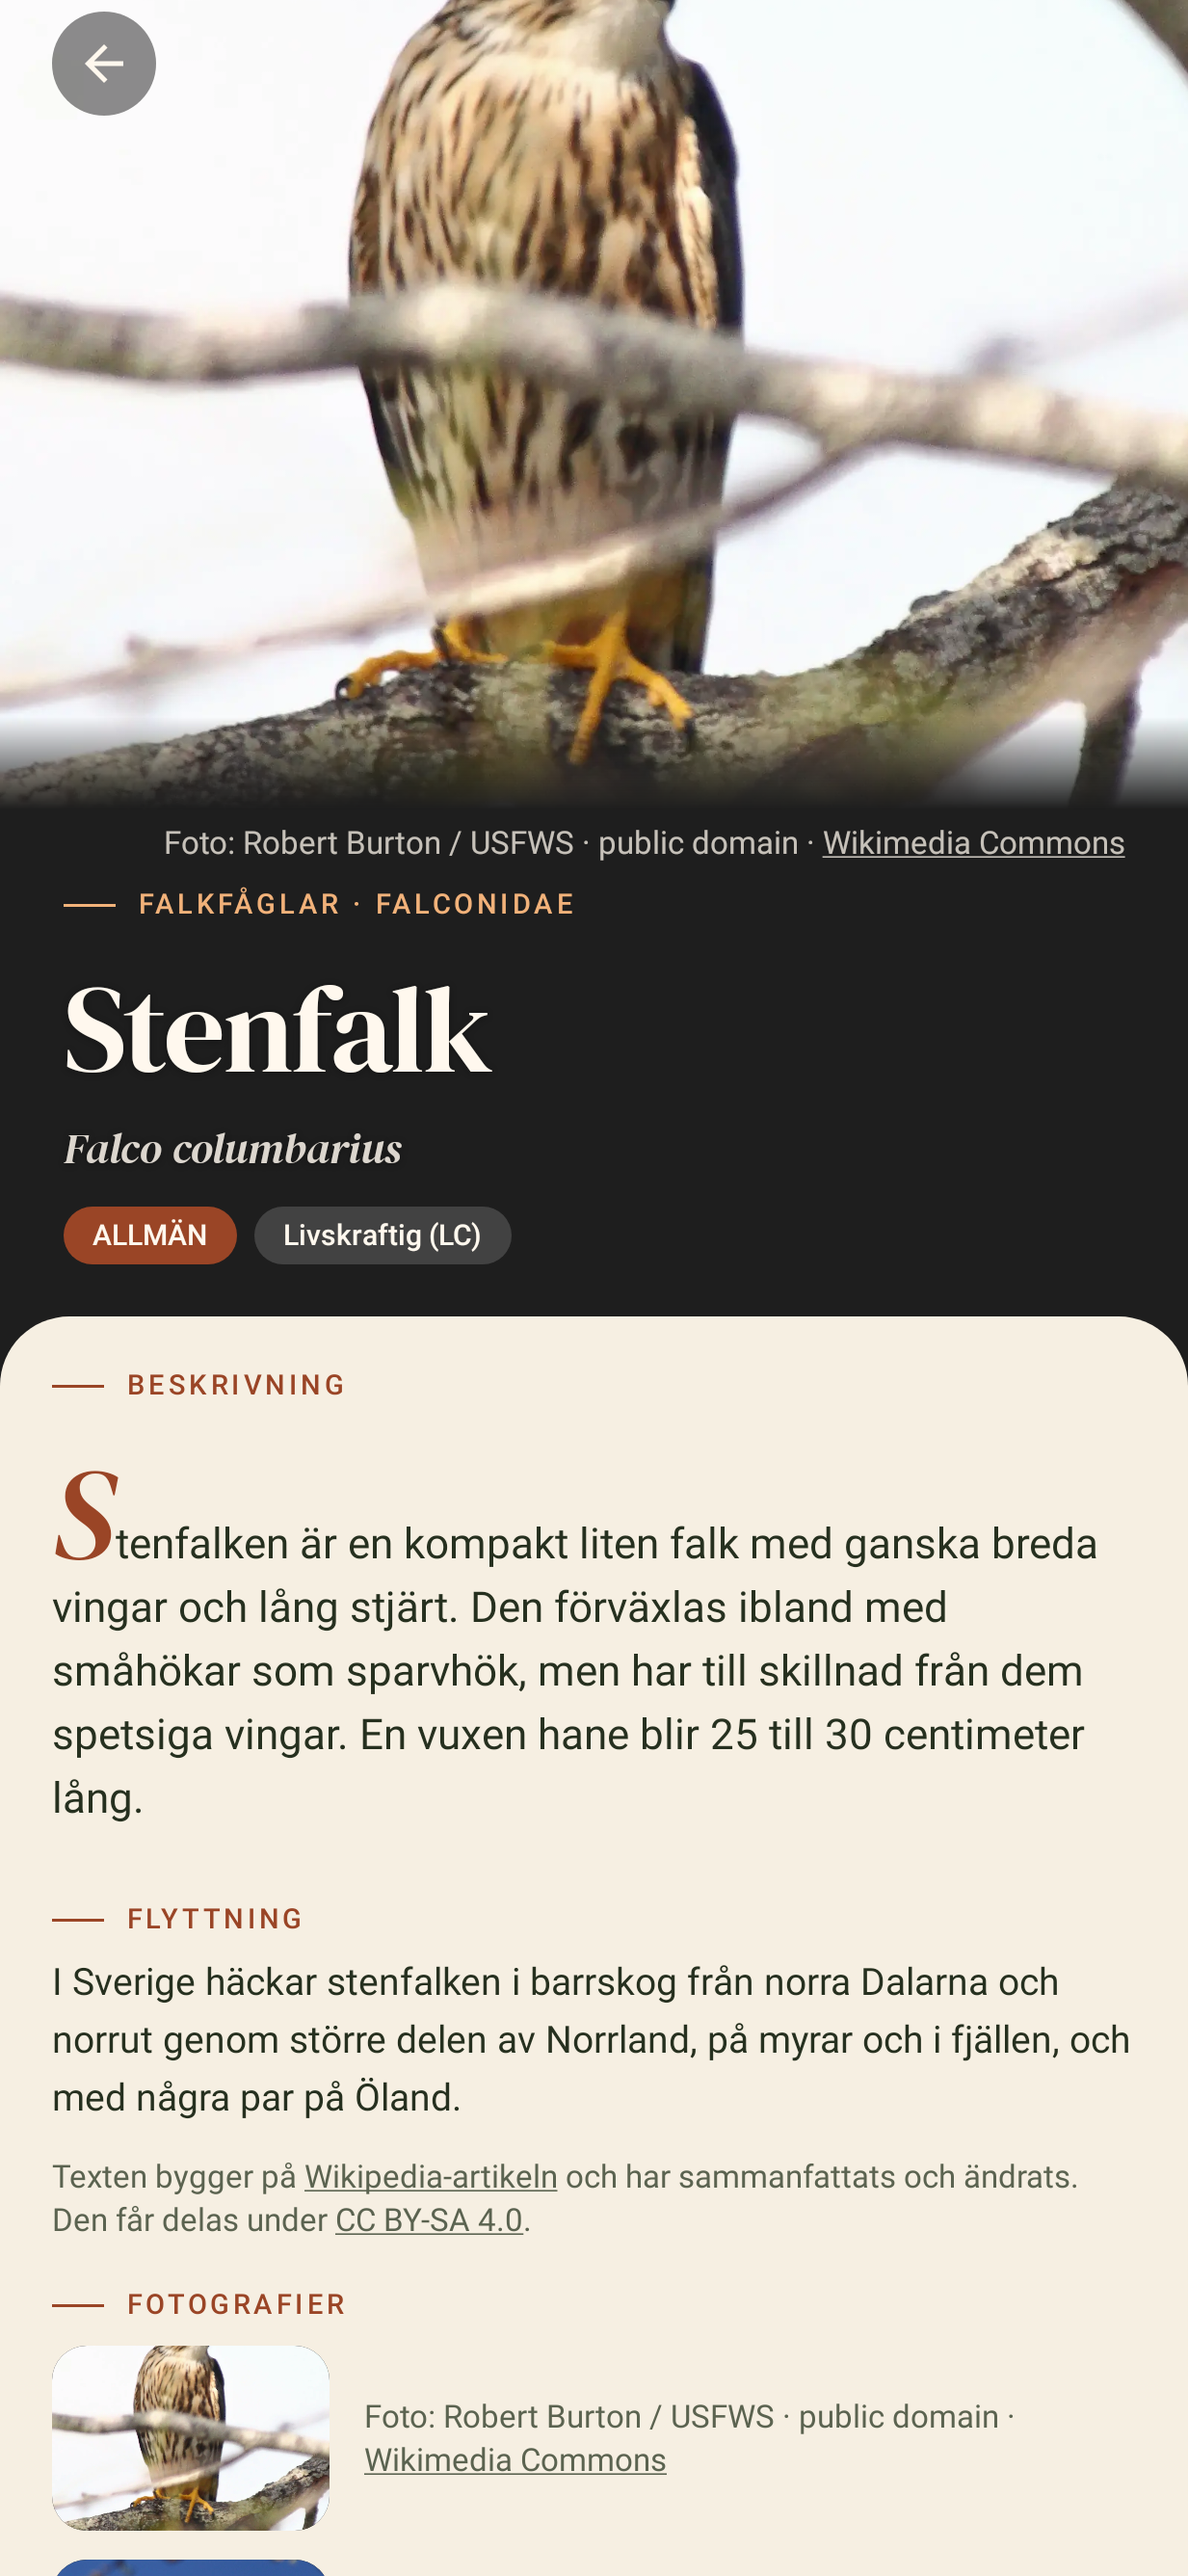
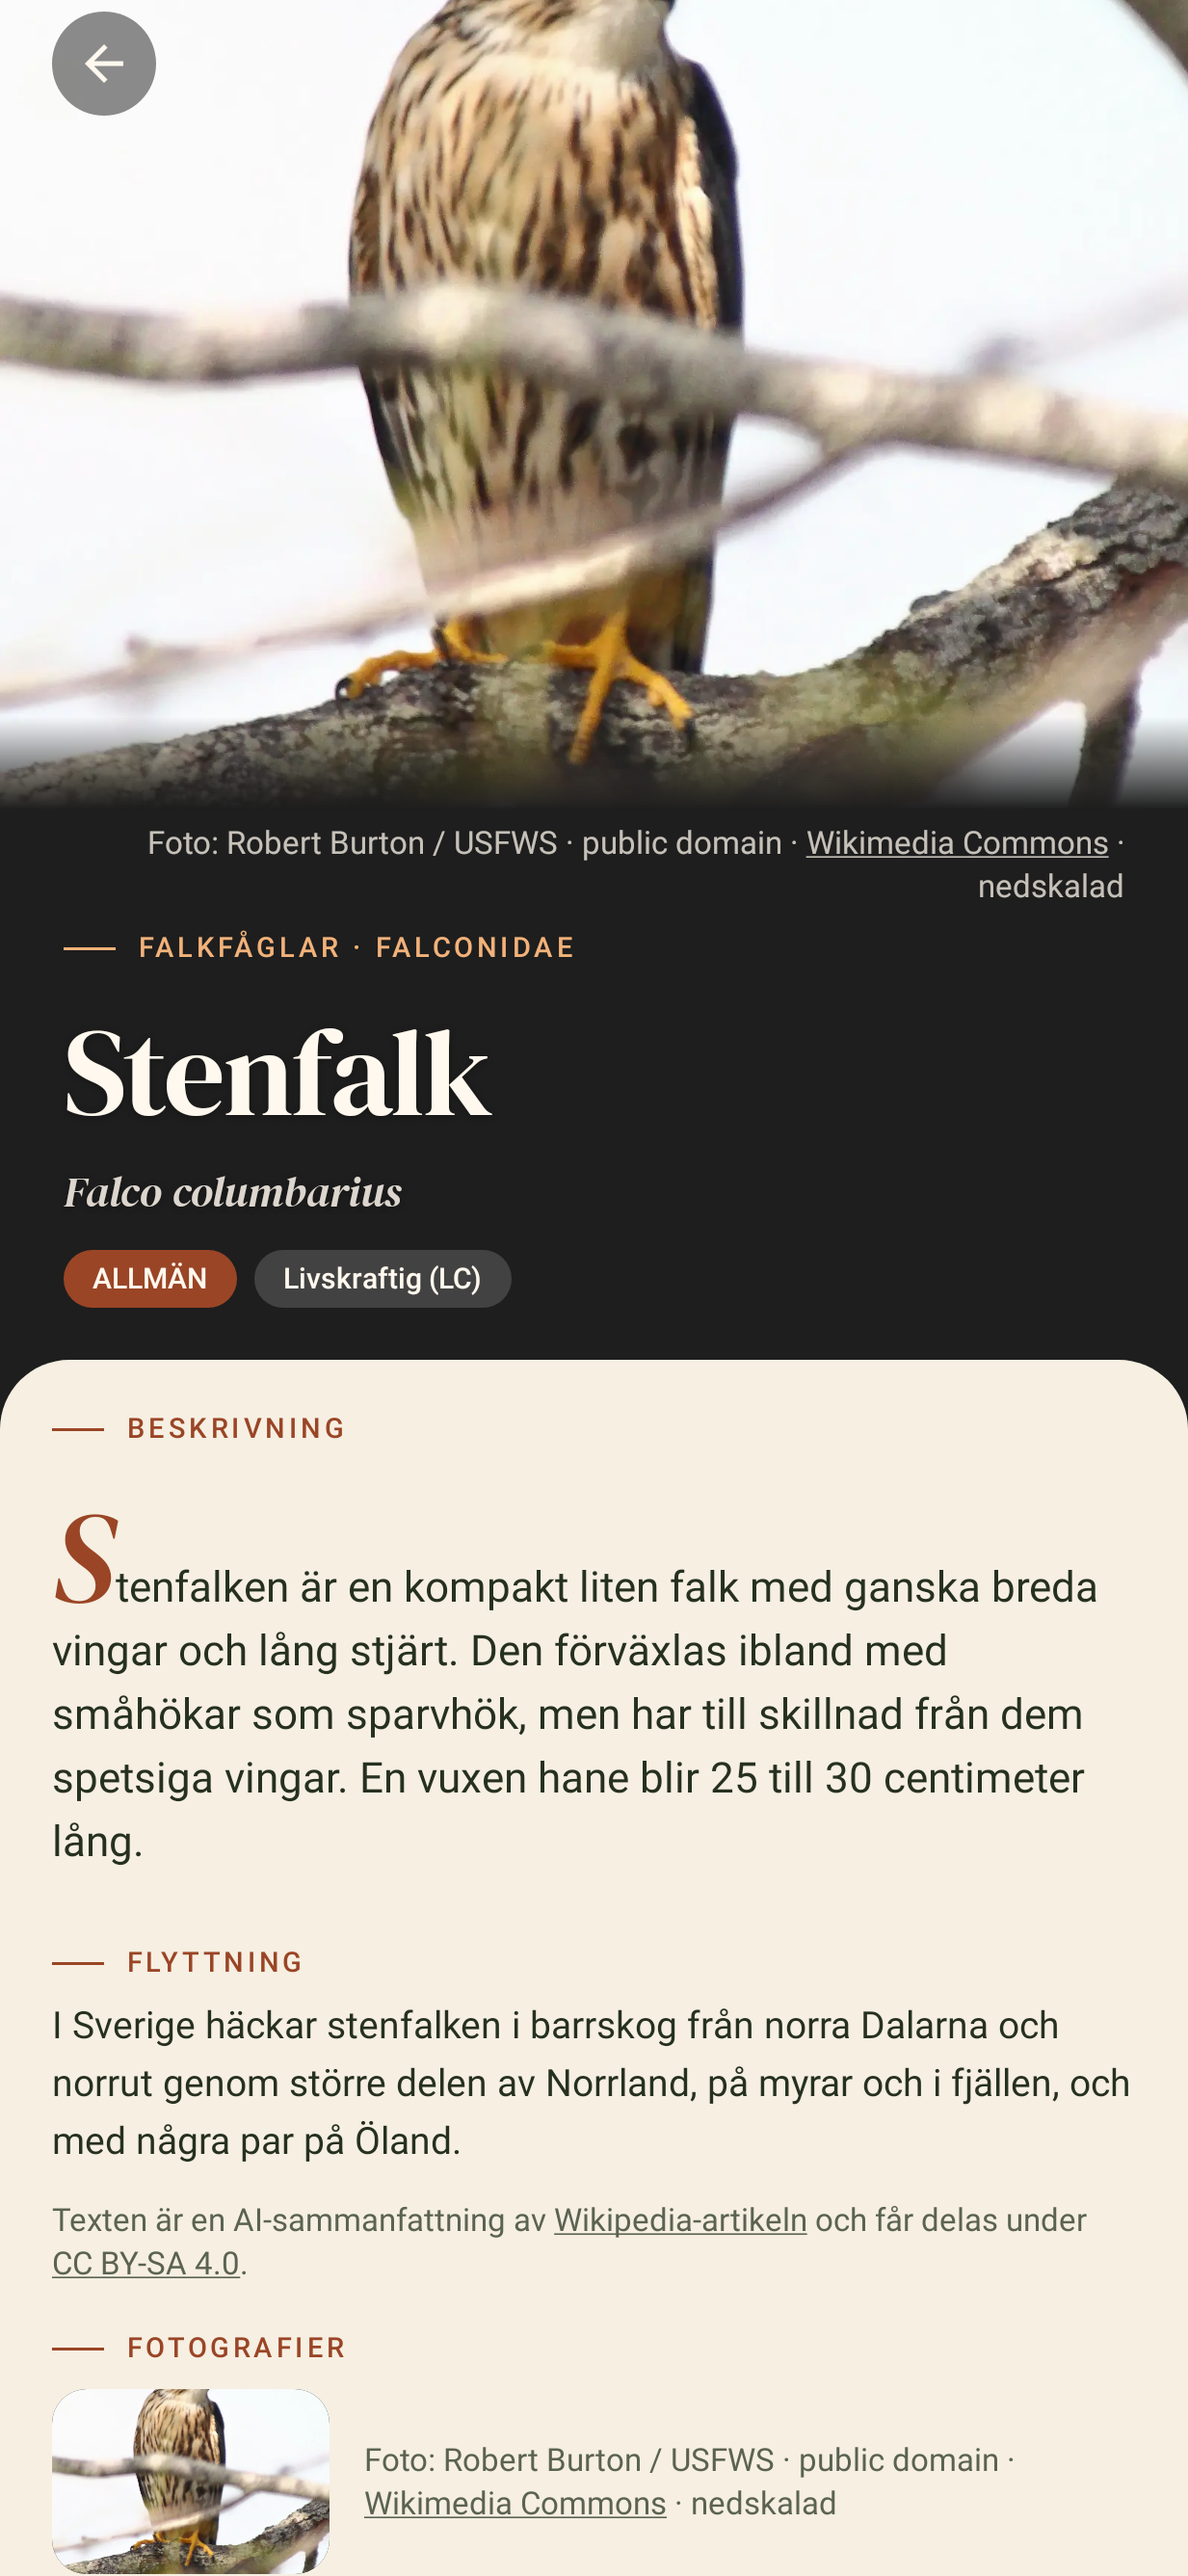
docs: screenshots after the credit review; LICENSE.md and follow-up wording
Re-recorded the credits, profile, Match/Disambig and About/Bildkällor/licence
screenshots (one credit format, underlined links in the text's color, AI label).
shared/content/species/LICENSE.md: "where a text exists but its revision is null";
the follow-up names Drillärka.

diff --git a/docs/superpowers/plans/1.3.0-tillagg/uppfoljare.md b/docs/superpowers/plans/1.3.0-tillagg/uppfoljare.md
@@ -13,4 +13,4 @@ Uppföljare (små, före vC130 om tid finns):
 - 30 svenska namn skiljer sig från BirdLife Sveriges lista (Albins beslut).
 
 Artsidans textkredit (7i-fix A, granskningen 2026-10-07), till 1.3.1:
-- Fyra engelska texter kan beskriva ett annat taxon än arten, eftersom den sparade revisionen är en artikel om ett annat Wikidata-objekt (inte en förgreningssida, så revisionen står kvar och krediten länkar den): Kricka Q25700 (en "Green-winged teal" rev 1347153361, Q704074 = Anas carolinensis, amerikansk kricka), Q1083050 Mirafra javanica (en "Singing bush lark" rev 1315354773, Q2743822 = M. cantillans), Härfågel Q25247 (en "Hoopoe" rev 1350762486, Q20977 = familjen/släktet) och Gråsiska Q20754771 (en "Redpoll" rev 1315349490, Q2822501 = släktet). Hämta om rätt artikel i 1.3.1 och skriv om texterna, eller töm revisionen som för förgreningssidorna (dadf90e5).
+- Fyra engelska texter kan beskriva ett annat taxon än arten, eftersom den sparade revisionen är en artikel om ett annat Wikidata-objekt (inte en förgreningssida, så revisionen står kvar och krediten länkar den): Kricka Q25700 (en "Green-winged teal" rev 1347153361, Q704074 = Anas carolinensis, amerikansk kricka), Drillärka Q1083050 Mirafra javanica (en "Singing bush lark" rev 1315354773, Q2743822 = M. cantillans), Härfågel Q25247 (en "Hoopoe" rev 1350762486, Q20977 = familjen/släktet) och Gråsiska Q20754771 (en "Redpoll" rev 1315349490, Q2822501 = släktet). Hämta om rätt artikel i 1.3.1 och skriv om texterna, eller töm revisionen som för förgreningssidorna (dadf90e5).
